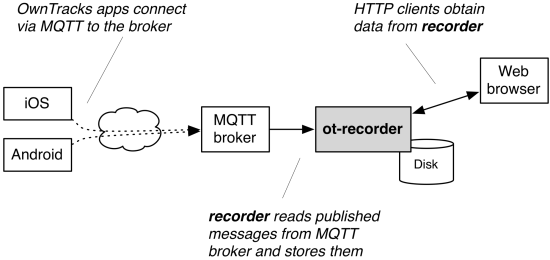
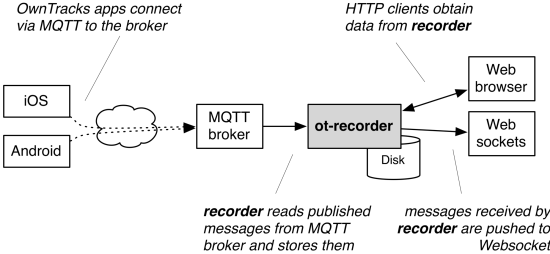
describe Web server features

diff --git a/README.md b/README.md
@@ -11,7 +11,7 @@ There are two main components: the _recorder_ obtains, stores, and serves data, 
 The _recorder_ serves two purposes:
 
 1. It subscribes to an MQTT broker and awaits messages published from the OwnTracks apps, storing these in a particular fashion into what we call the _store_ which is basically a bunch of files on the file system.
-2. It provides an HTTP interface (REST API) from which you can obtain this data in different formats.
+2. It provides a Web server which serves static pages with a few examples of how to access the data through its HTTP interface (REST API). In particular a _table_ of last locations has been made available as well as a _live map_ which updates via the _recorder_'s Websocket interface when location publishes are received. In addition we provide maps with last points or tracks using the GeoJSON produced by the _recorder_.
 
 Some examples of what the _recorder_'s built-in HTTP server is capable of:
 
